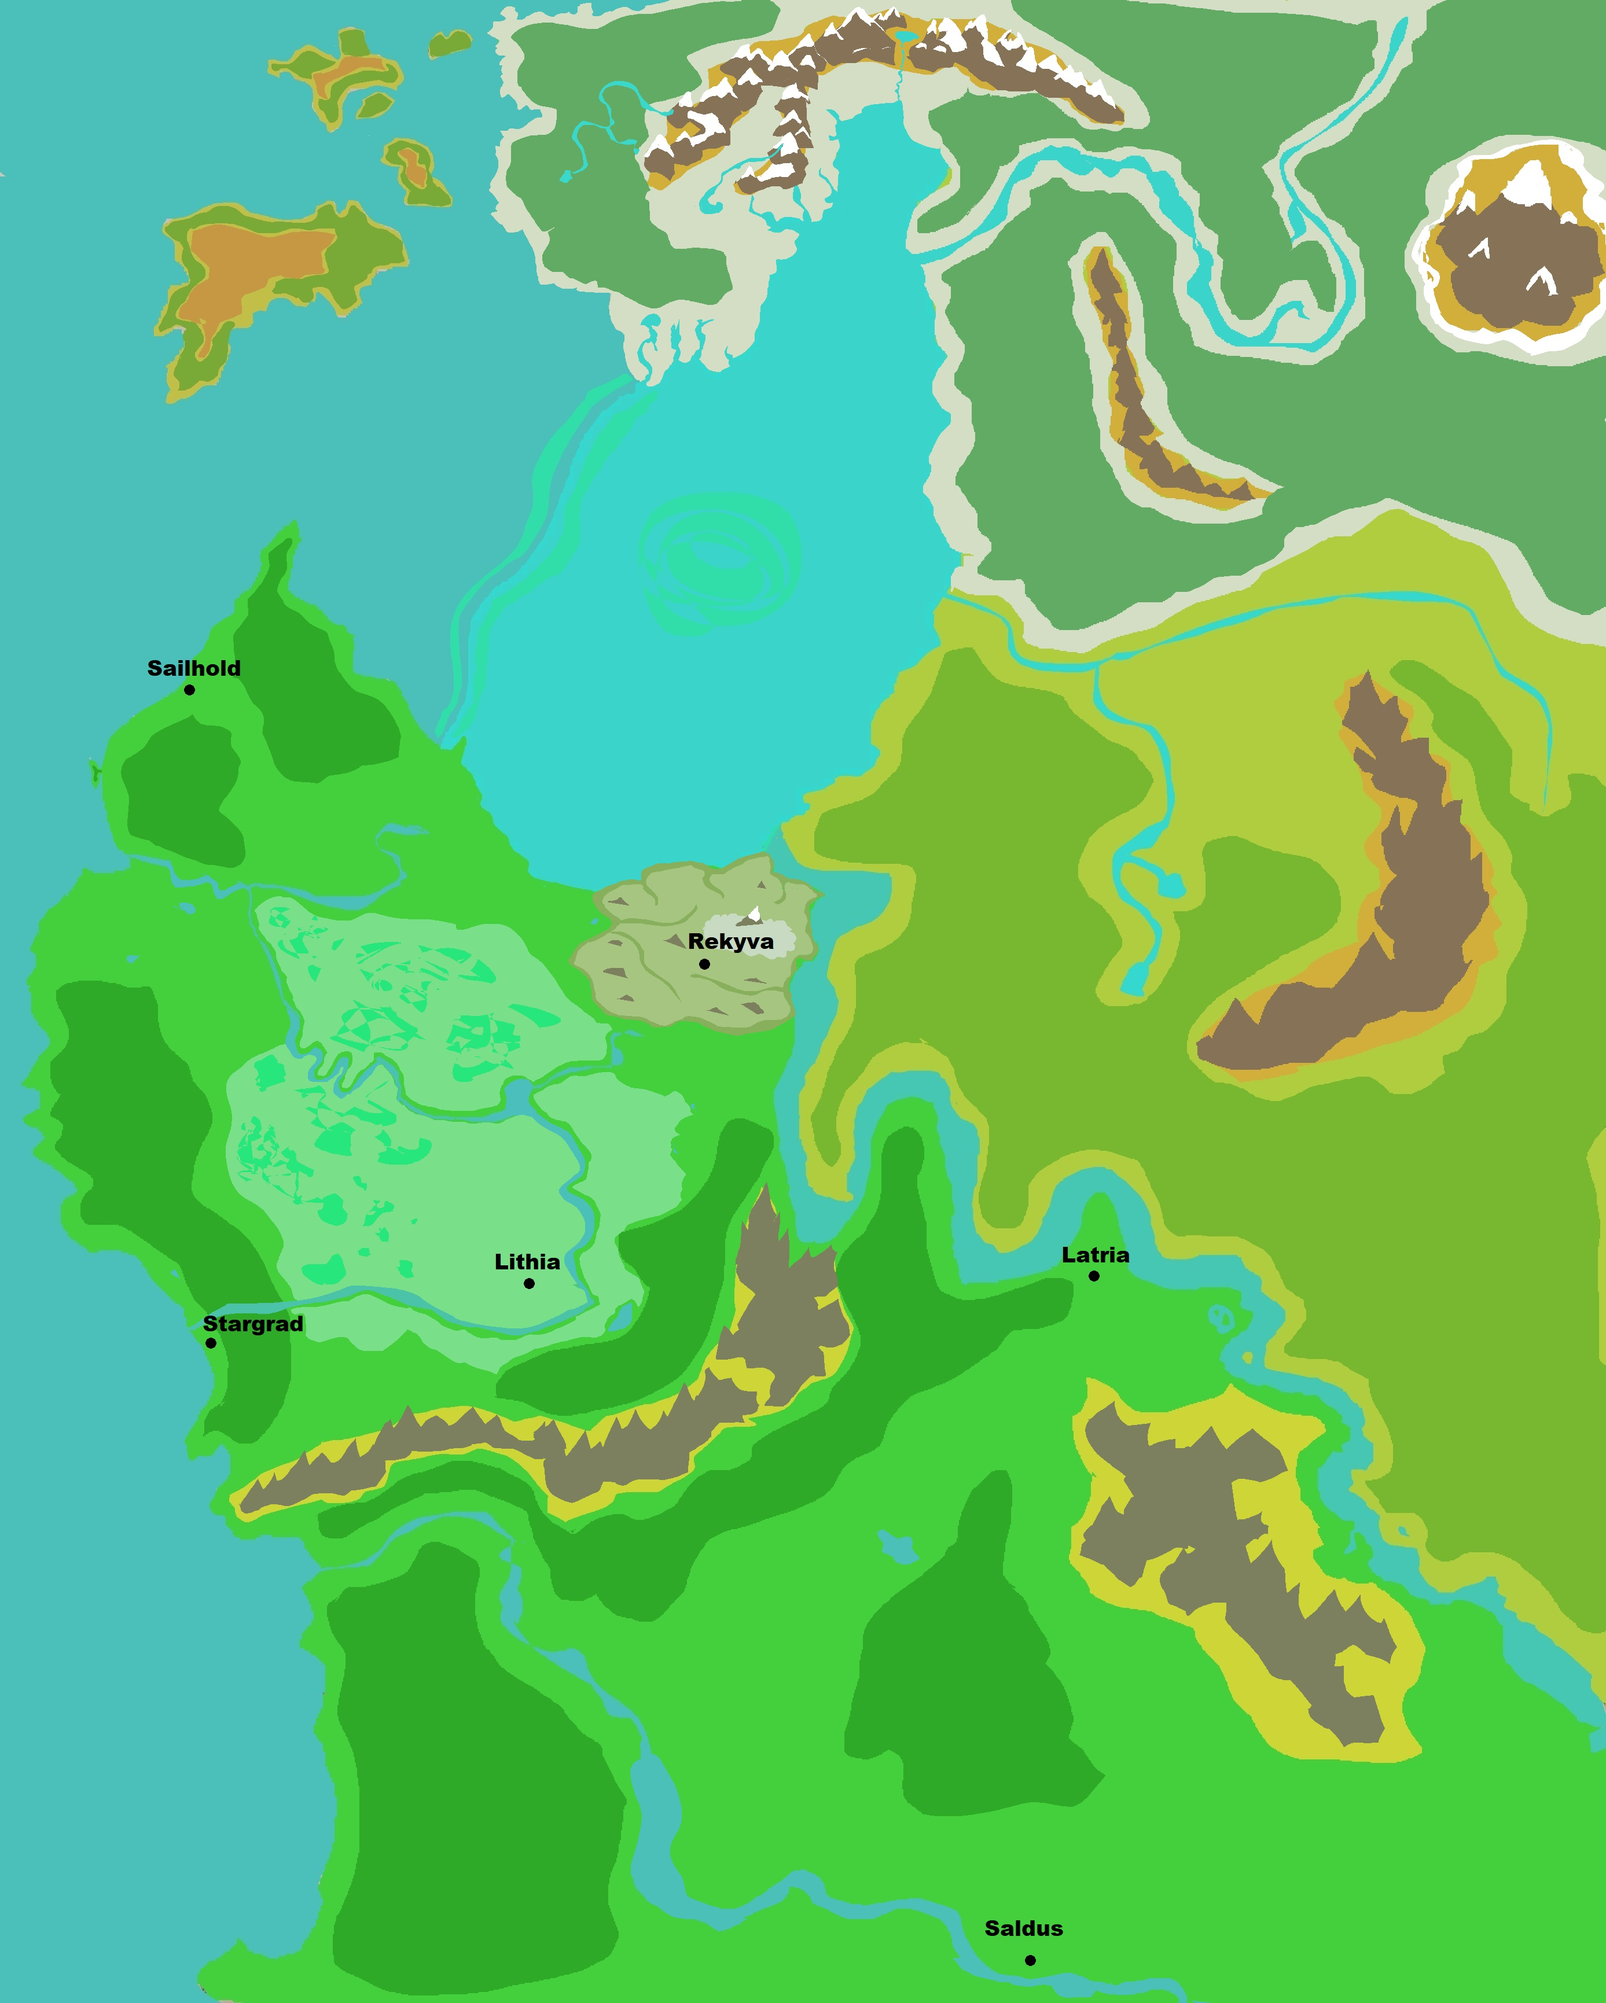
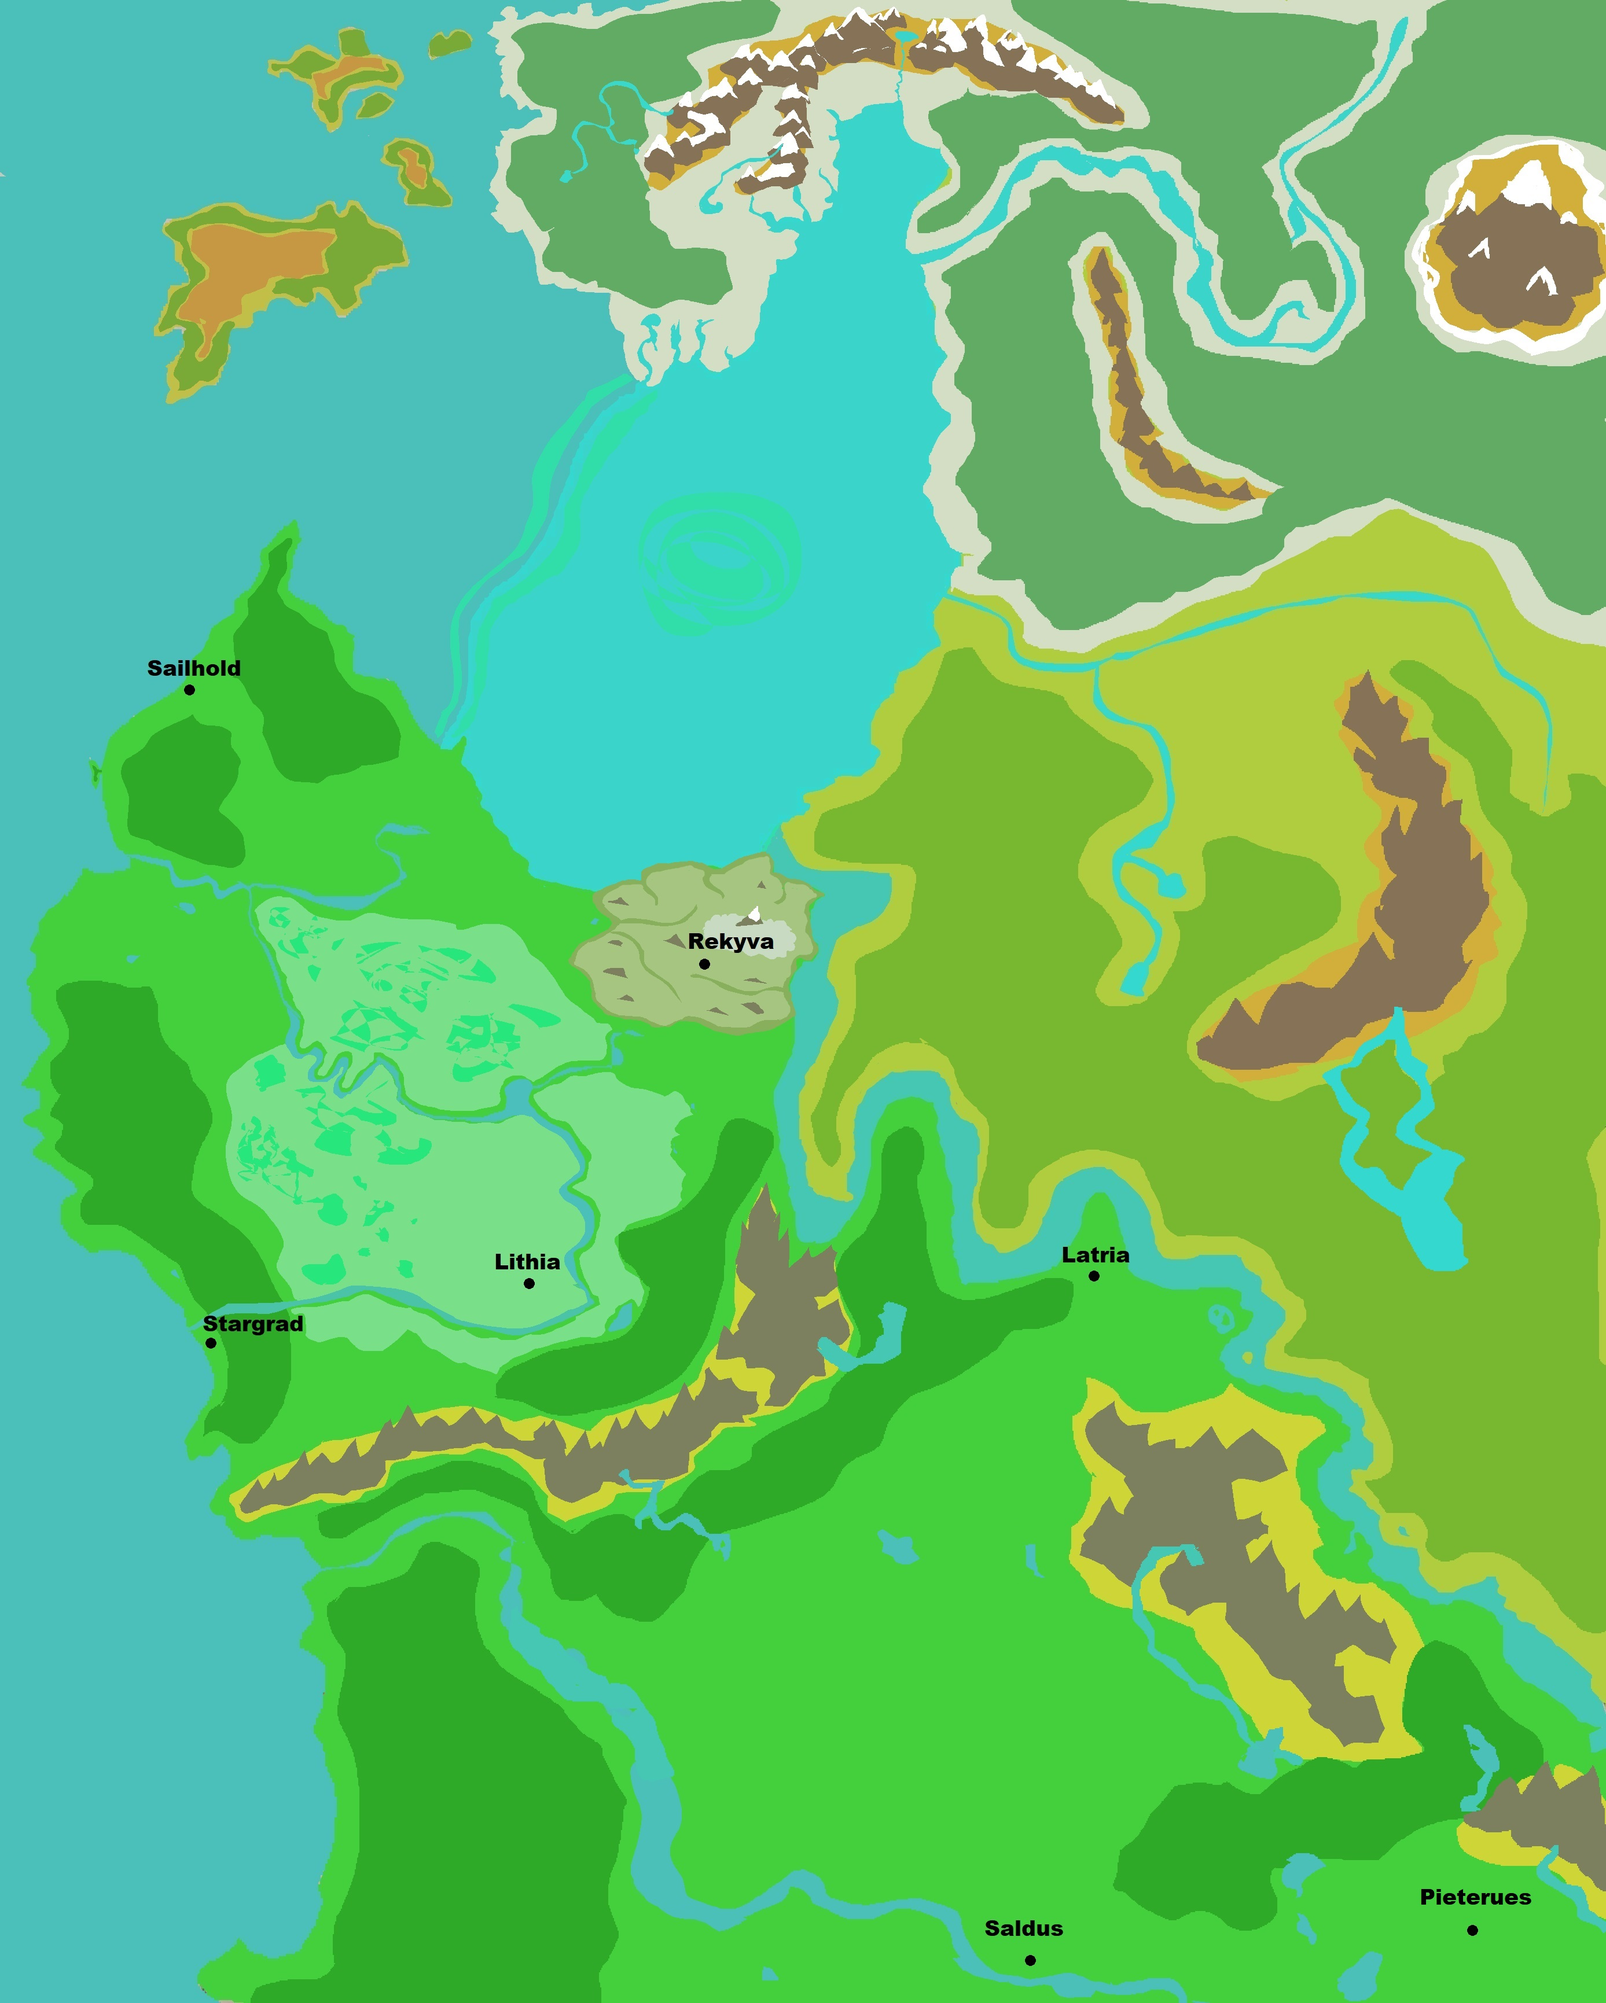
new Picture,updated bg

diff --git a/theThing_background.html b/theThing_background.html
@@ -29,8 +29,86 @@
 			
 		          <div class="card">
                   <h2 id="hello-world">Background History</h1>
-                  <div class="card-body">
-                    <object width="350" height="350" type="text/plain" data="theThing/message.txt" style="overflow: hidden; background-color: white";></object>
+                    <div name="dnd" class="card">
+                      <h1 id="hello-world">Penra.. so far</h1>
+                      <div class="card-body">
+                        <p>My world encompasses a mixing pot of fantasy races thrown together by a mythos of ancient conflicts and colamities started by started by races that still exist in a declining state. </p>
+                        <h3>Ancient Penra</h3>
+                        <p>The ancient status quo pertained between Dragon and Giant-kind, the prime races of Penra, who ruled over the 'lesser races' and ran their own mighty empires.</p>
+                        <p>A major event in Penra's history was the total collapse of the realm Evergreen, home of the Fey, split by its ruling Elven Empire Magical Civil War that resulted in magical tares between the Marial Realm and the Evergreen. </p>
+                        <p>Being the world where the naturalistic energies of universe come from, these tares had rapturous consequences on the Material Realm, taring some continents asunder, enhancing the ferociousness of its inhabitance's biology, and corrupting the natural cycle of nature. </p>
+                        <p>For this misdeed, the Fey banished Elven-kind from the Evergreen, made worst off when brought under the dominion of the Dragonic Empire.</p>
+                        <p>In the years without wars to rage, the Dragons experimented with their slaves and produced half breeds to serve in their armies.</p>
+                        <p>But no period of time is ever truely peaceful. Amiss this tranqual time, man and dwarf warred as proxies for Giant-kind against the Elves and Dragonborn of the Dragons. </p>
+                        <p>How the great conflict eventually arose remains a mystery, though the powerkeg to such a war was inevitable to spark. </p>
+                        <p>Eventually these mighty empires were brought low in their war, and were brought to near exinction when their unified slaves rose up, fortified by astral powers of foreign gods.</p> 
+                        <p>Devistated, the giants lost their kingdom and the many dragon flights were forced into hiding.</p>
+                        <p>Since then, the state of Penra's fate has been left in the hands of morals.</p>
+                        <h3>The Age of the Great Cataclysm</h3>
+                        <p>A period of time that spanded 200 years when the legions of the 9 Hells gained foothold over gateways to the Material Plane and invaded Penra. 
+                          The skys rained fire as hordes of demons materialized into the world to slaughter and enslave Penra's denisons, building fouder for their master's soul machine. 
+                          Caught unprepared, the warring mortal races discovered to their horror that their undefended homelands were being razed while they were months out.
+                          Despite to save their civilizations, these mortals pressed for peace in their wars of conquest and banded together to fight the demonic menace. 
+                          This is where the Triple Pact was formed between Penra's most powerful kingdoms of the Dwarven Clans, Elven Enclaves, and the Human provances.</p>
+                          <p>For two centuries races of Penra waged a gritty but ultimately successful holy campaign that ultimately culiminated in the destruction the temples and places of power that brought the demons through.
+                              The war offically ended at the Battle of Cyndor, where a band of powerful mortals killed the Belor guarding the final gate to the 9 Hells and invoking powerful magic to break its connection to the Material Plane.
+                              This significant moment in Penra's history established the year 0 of the Teshioran calendar known as 0 SBC (Since the Battle of Cyndor).</p>
+                        <img class="card-img-top" src="hobbies/Age of Cataclysm.png" alt="Age of Cataclysm"/>
+                        <h1>Teshiora</h1>
+                        <img class="card-img-top" src="hobbies/Teshiora.png" alt="Teshiora"/>
+                        <img class="card-imp-top" src="hobbies/Teshiora_Draw.jpg" alt="Teshiora_Draw"/>
+                        <p>A flatland region domainated by city state duchies primarily controlled by the seven ruling Human Clans established around 1100 SBC.</p>
+                        <h1 id="hello-world">Rekyva: The Valley of Monsters</h1>
+                        <img class="card-img-top" src="hobbies/Rekyva.png" alt="Rekyva"/>
+                        <p>The duchy of <b>Rekyva</b> is nestled in the hilliest part of Teshiora's northlands along the Latvia River with the capital of Rekyva built as a hilltop fortress.
+                          The provance surrounding Rekyva was the home to several hill tribes of humans around 450 SBC, growing into an feudal power over the course of several centuries as rule of powerful warlords united the tribes into the Ruskian people.
+                          In the ancient Rekyvan language, known as Ruskle, Rekyva means (Rek) Warrior's (yva) Cradle, which is resembled in their militaristic mindset, fielding the largest army of the seven duchies.
+                          Ruskians value valor and stoicism in the face of danger, exemplifying a culture perceived to be constantly at war with its neighbors, forging some of the most tenacious and stubborn men of Teshiora.
+                          Prone to expansionist tendencies, the twin ruling Warlords project the persistent image to their people that they are foreigners to these lands surrounded by enemies and must always be ready for war.
+                          Often times the Ruskians go to war to ironically stave off hostilities from powerful neighbors, using occupied duchies like Lithia as a buffer state from southern aggression.</p>
+                          <img class="card-imp-top" src="hobbies/ettin.png" alt="ettin"/>
+                          <p>Born in a land frought with danger, Rekyvans form strong familial bonds with their neighbors known as clansmen and hold the position of REKK-VAR (Brave Warrior) as the highest honor a non-noble can be. </p>
+                          <h1 id="hello-world">Lithia: The Land of Rain and Storm</h1>
+                          <img class="card-img-top" src="hobbies/Lithia.png" alt="Lithia"/>
+                        <p>The duchy of <b>Lithia</b> is centrally located in-between two major trade rivers and a plentitude of flat land for agriculture to flourish where the capital of Lithia being a twin port city.
+                          Formed by Elven decent, Lithia means (Lith) Rain (ia) Land, showcased in intense bimonthly rain seasons resulting in numerous rainstorms and floods, controlled only by the peoples deep druidic and religious ties to nature.
+                          Bonded in the Triple Pact, these Elves inhabit Human lands under the guidance of a council of Human elders of Clan Zoric, for no other duchy would accept them. </p>
+                       <img class="card-imp-top" src="hobbies/Stormhunter.png" alt="Stormhunter"/>
+                          <p>Co-habitation among races led Lithia containing the highest population of Half Elves in Teshiora, while also fostering the first and largest mixing pot of Humans and Elves in the known world.
+                          Recently in world history, the Ruskian Warlord Grim Holska led an army of over 14,000 to occupy the unmilitarized Lithia after a Half Elf assassin made an attempt on his life.
+                          Without the power to defend their homes, many Lithians have fled south into the ancient forests of Capidea where they setup hidden camps under the hospitality of Capidean Forest Elves. 
+                          Clan Holska now occupies Lithia, repressing any resemblance of the old Elven religion and restricting freedom of movement throughout the duchy. 
+                          The people of Lithia are now refugees; harboring ill will towards neighboring kingdoms who stood by as their home was taken over, pushing some of the Circle's druids to follow radical leadership to reclaim their homeland. </p>
+                          <h1 id="hello-world">Pieterues: The Capital of the Teshioran Empire</h1>
+                          <img class="card-img-top" src="hobbies/Pieterues.png" alt="Pieterues"/>
+                          <p>The grassland city state of <b>Pieterues</b> is the hegemony of the Teshioran League, under the rule of King Daravan, proclaimed King of the Humans.
+                            Founded along the Great Arrow Lake, the foundation myth of Pieterues was formed around the Age of Cataclysm, during which a band of villages from western tribes came across and hide in an unremarkable abandoned town of no name. 
+                            Following a bid of despiration, the villagers followed the superstition of crazied village elder who commanded them to coat the hideaways and their families in red to avoid sight of the invading demonic hordes. 
+                            Those who faifully followed the old man's commands evaded the notice of an invading demonic hoard, who went on to slaughter the uncoated villagers and level the countryside. 
+                            For 8 days the villagers remained hidden in the village until a messsager was spotted outside, telling the survivors that demons had been driven off by brave defenders of the land. </p>
+                            <p>In light of the villager's blessed survival, they named the village Pieterues (Little Red Stone) and declared the mad elder as their prophet.
+                            With many of their neighboring tribes devastated by the Cataclysm, the Piertians were given chance to expand for centuries into a dominate force of the region, able to finally compete with its rivaling neighbors.
+                            The village became a town and placed their wisest elders as ruling lords, guided by clergy of a newly forming religion called Pekyo (Eternal Stone) which worshiped aspects of strong family bonds, the strength to protect them, and the honoring of heroic sacrifice.
+                            As generations grew up with their founding myth taught, their survival was interpreted as a sign of fate, prompting religion became an important part of Piertians lives, leading to many advisors to the King being among the clergy.
+                            The King themselves was chosen by hereditary ties to the city's founders, maintaining power primarily those appeasement of the Arch Clerics and the formation of world renown army, known for their fanatical loyalty and dedication.</p>
+                            Those Kings that failed to appease the Order of Pekyo tended to be placed in positions were their family was excommunicated from the church and had to commit to typically suicidal act of heroism to restore their honor.
+                            <p>Throughout the history of Teshiora, Kings of Pieterues inducted neighboring city states into the Teshioran League through military force, but mainly remaining loyal as long as Pieterues defends the realm from outside forces.
+                            Such outside forces include the barbarian tribes to the north, the Centaur leagues to the east, and feared prophetic return of the demons hordes.</p>  
+                            <h1 id="hello-world">Saldus: The Pious State</h1>
+                            <img class="card-img-top" src="hobbies/Saldus.png" alt="Saldus"/>
+                            <p>The fortified duchy of <b>Saldus</b> is located along the Capidean River, surrounded by high walls that establish itself as the gateway into Teshiora.
+                              Its founding was in the Age of Cataclysm when an armed militia of 49 clerics of Pelor defending their village against persistent hordes of demons that otherwise ravaged the land.
+                              The truth of this origin myth is yet to be proven, though the city state that arose centuries later took up the name "Saviors (Sal) of the Light (dus)" following this myth and is home to one of the most powerful orders of Pelor in the known world, The Sian (God's gracious) Convenient.</p>
+                            <p>Saldus rests on a hilltop near where the Capidean River is the easiest to cross, and surrounds itself in high stone walls along the river's bank to defend against the southern threats of centaur hordes and lizardmen.
+                             The city is segmented to several quadrants corresponding to the different sects of Pelor, with the militant sect garnering the most prestige, and ultimately political power, in the city. Those who live here do so to feel closer to the city's patron deity Pelor, through a mixing pot of religious and cultural means.
+                             Outside the duchy of Lithia, Saldus is one of the most multicultural city states in the world, featuring a prominent gathering of Elves, Dwarfs, Gnomes, and even monstrous races like Kobolds, Goblinoids, and Orcs as long as they share the city's governing tenants.
+                             This theocratic city state enjoys a reserved spiritual life filled with communal prayer, the singing of hymns, and the distribution of alms. Pelorians strive to perform so many good acts that evil has no room in which to exist, however this dogmatic mindset has led to Pelor's followers to be wary of outsiders who don't share their commitment.
+                             Thus, many Pelorians are wary outside practices, repressing all forms of summoning magic, dark incantations, and necromantic magic, fearing these practices will weaken their connection to Pelor and will led to another demonic invasion.</p> 
+                             <p>As part of the Teshioran League, Saldus serves as the southern pass into the region, guarded by the city's clerical knight class known as Peltorians who uphold their order's tenants while holding the martial prowess of a birth trained warrior.
+                              It's common for other duchies to have a peltorian amongst their advisory council to speak on behalf of Saldus and offer religious advice on matters of planer significance. Some would consider them the best and the worst diplomats due to their dogma dictating that they speak on behalf of Pelor, therefore act in foreign lands almost as though they themselves govern it.
+                              Despite this, the Kings of Pieterues have gone to great lengths to appeal to pelorian customs because their significant divine fighting force also serves to protect his realm from the Rekyvans, who often are often unwilling to speak with Saldian sent diplomats.
+                             </p>
+                      </div>
                   </div>
                 </div> 
                   </div>   
